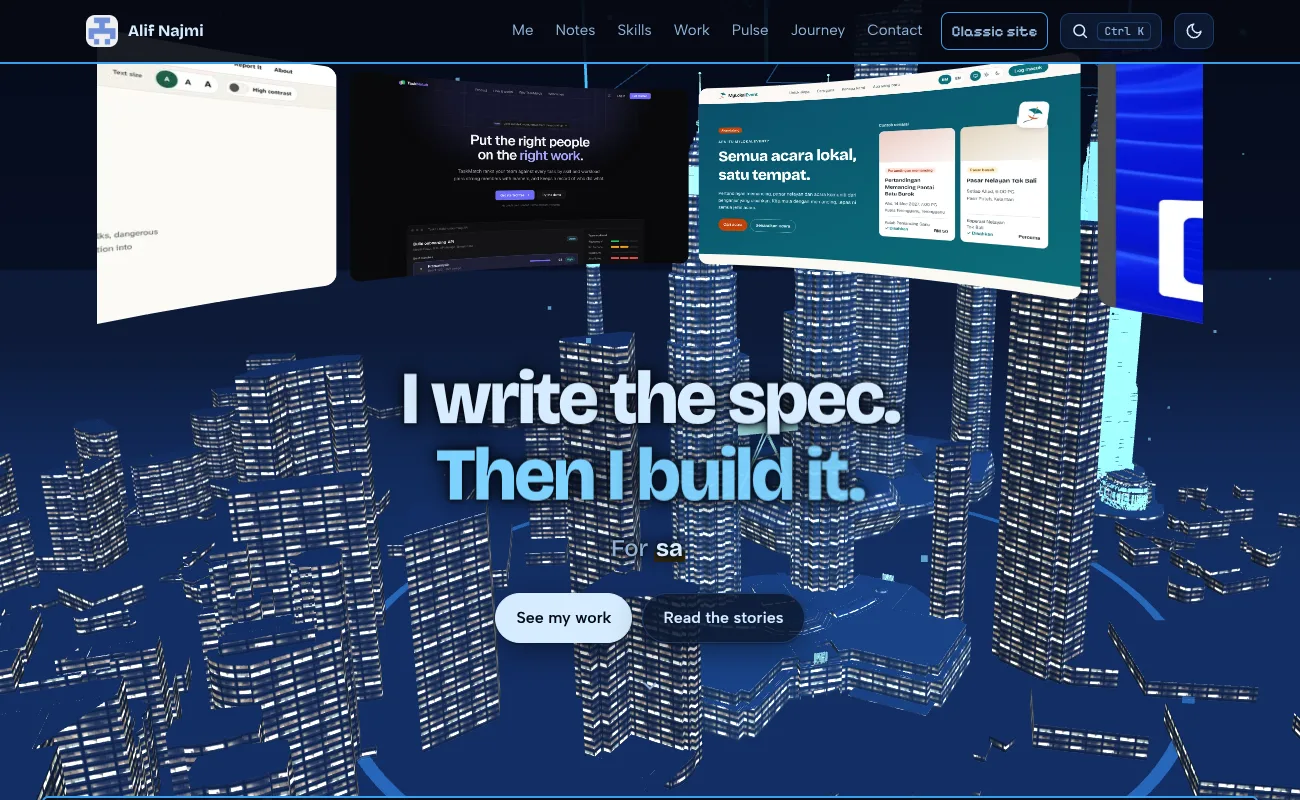
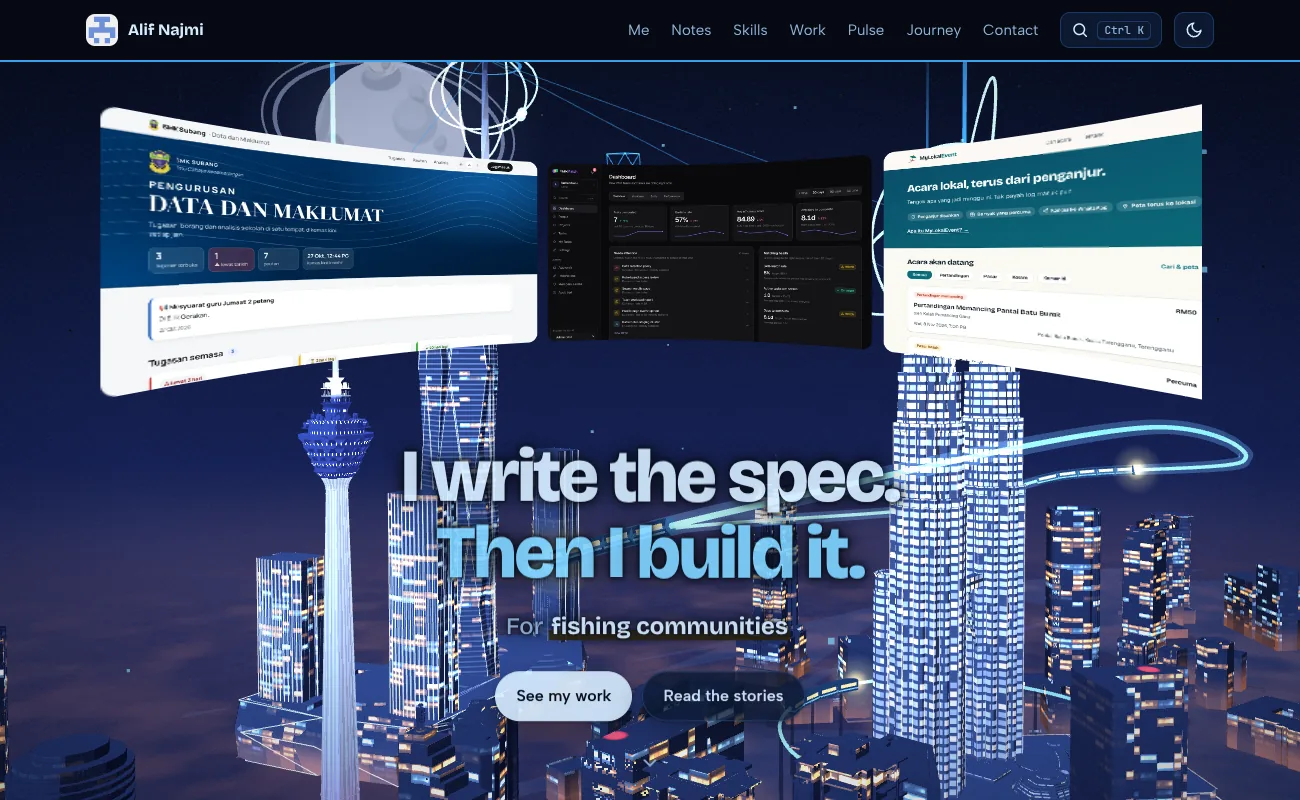
README: screenshots retaken from the current site
Claude-Session: https://claude.ai/code/session_016zwXQRARmSJWP5d5U37GV4

diff --git a/README.md b/README.md
@@ -228,8 +228,8 @@ The home page (`index.html`) sits over a WebGL scene of Kuala Lumpur (three.js f
 
 | | |
 |---|---|
-| ![Hero line over the city, dark](docs/screens/city-hero-dark.webp) | ![The flight, head-on at the skybridge, dark](docs/screens/city-flight-bridge.webp) |
-| ![Journey on its panel, light](docs/screens/city-journey-light.webp) | ![The flight's last shot: all four landmarks tagged, light](docs/screens/city-flight-wide.webp) |
+| ![Hero line over the city, dark](docs/screens/city-hero-dark.webp) | ![The flight at night: out of the skybridge gap toward Menara KL](docs/screens/city-flight-bridge.webp) |
+| ![Journey over the city, light](docs/screens/city-journey-light.webp) | ![The flight's finale at gold hour, with the Fly it again button](docs/screens/city-flight-wide.webp) |
 
 - **`assets/scene.css`** re-skins `site.css` by overriding its tokens (`--bg`, `--ink`, `--accent`, ...) with the blues, so every component follows with no per-component work. It also holds the panel style (opaque, a hard offset shadow, 2 px blue border), the opening's plates and the flight/HUD styles.
 - **Readability rules:** sections are opaque panels (93 % paper), no `backdrop-filter`; the opening's words get a plate or a halo because they sit straight on the city.

diff --git a/docs/claude-log.md b/docs/claude-log.md
@@ -26,6 +26,11 @@ where the last chat stopped without re-reading everything.
 
 ---
 
+## 2026-11-12 · README screenshots retaken
+
+- **What:** twelve images in `docs/screens/` retaken at 1300 x 800 from the current site (opening, the six sections, Journey, three flight shots, two dark opening shots); three captions updated. Not retaken: `sql-playground.webp` and `join-atlas.webp` (notes pages), `2026-10-first-version.webp` (history), and the unreferenced `goals`, `opening`, `phone`.
+- **How:** Playwright on `/?dbg`; for flight shots, scroll to the progress and call `__scene.set(p)` so the camera does not take a minute to catch up in software rendering.
+
 ## 2026-11-12 · Floating roof fixed, README brought up to date (version 2.12)
 
 - **What:** `clearPlots` now also drops separate pieces that do not reach the ground and sit over a dropped block, so no roof floats near Merdeka 118. README: version 2.12 row, and the opening, night, flight, moon and light-palette notes rewritten to match today's changes. CLAUDE.md lists the owner's scene colour rules. Cache key `20261113w`.
